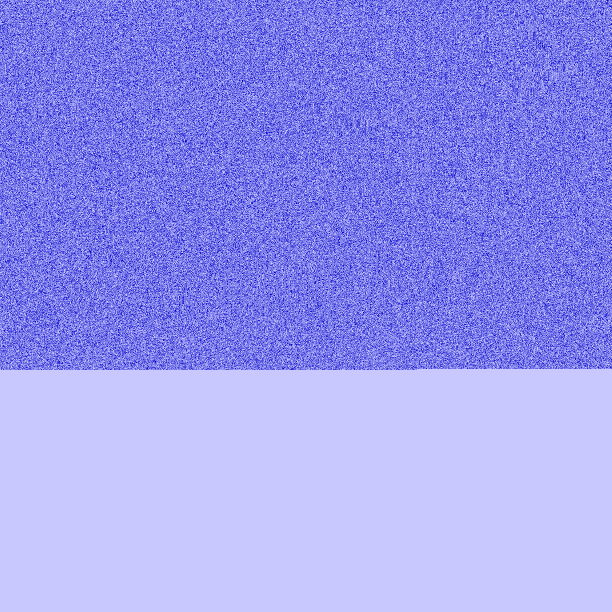
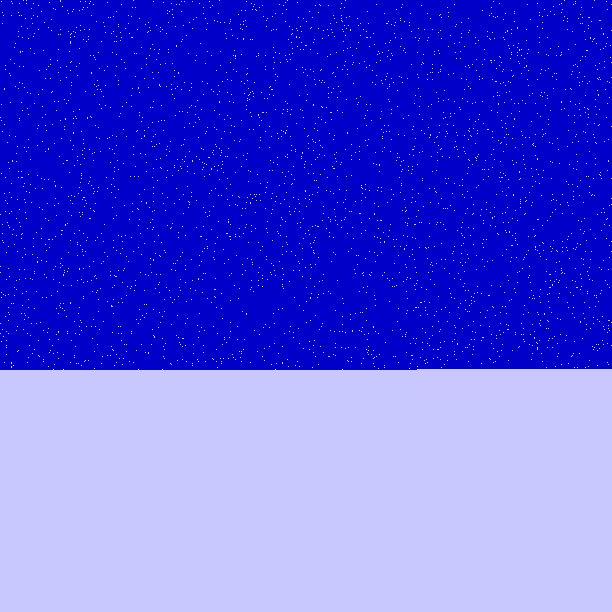
there was an indentation error causing the bug XDDD

diff --git a/Steganography.py b/Steganography.py
@@ -48,13 +48,11 @@ def encrypt(img: Image, msg: str) -> Image:
     img_data = img_data.flatten()
 
     for idx, bit in enumerate(bit_msg):
-        print(bin(img_data[idx]))
-        print(img_data[idx])
-        print(img_data[idx])
         new_val = int(bin(img_data[idx])[2:-2] + bit, 2)
         img_data[idx] = new_val
 
-        img_data = img_data.reshape(img_dim)
+    
+    img_data = img_data.reshape(img_dim)
 
     return Image.fromarray(img_data)
 

diff --git a/imageEncrypter.py b/imageEncrypter.py
@@ -3,7 +3,7 @@ import numpy as np
 
 
 def main():
-    PATH = "Balloon.jpg"
+    PATH = "Panda.jpg"
 
     original_img = Steganography.open(PATH)
 
